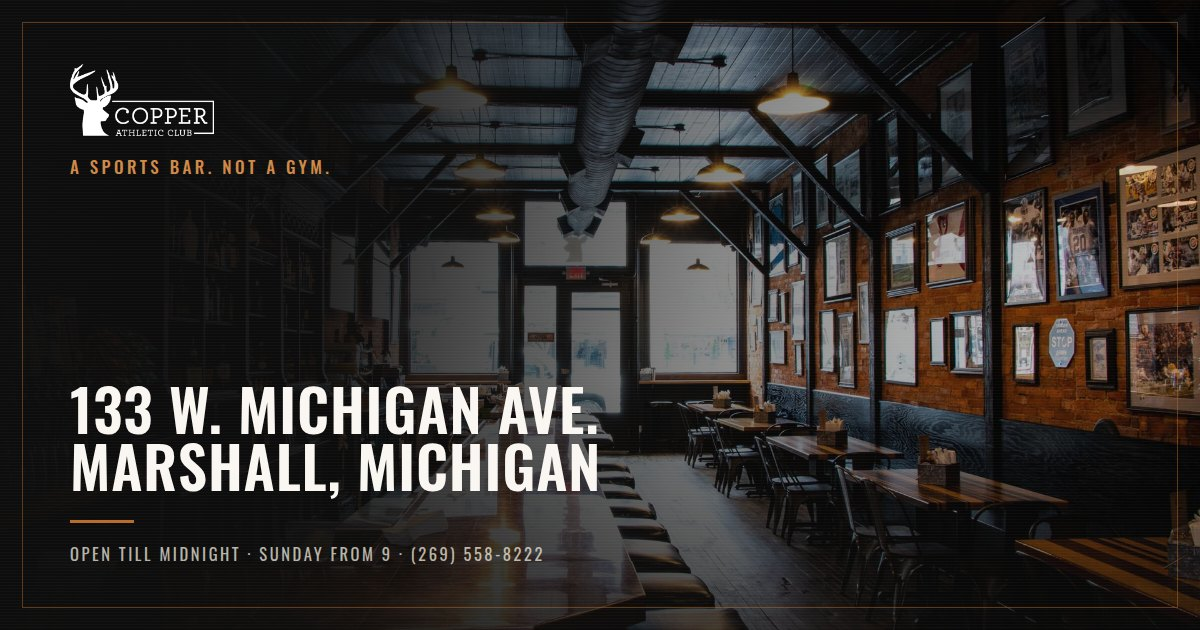
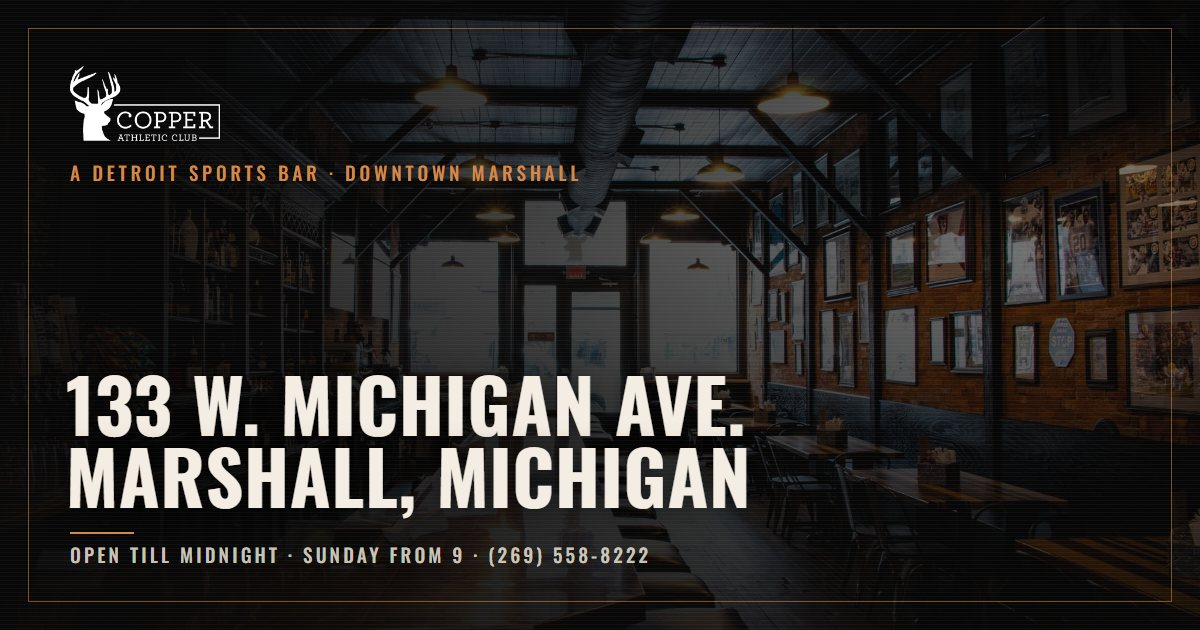
"A sports bar. Not a gym." is gone everywhere; the proposal is titled
Owner's request via Kevin, 8 Sep 2026. The line had already left the
hero, but it survived as the meta description on every page, the OG alt
text, the manifest tagline, and, baked in, all six link-card images in
public/og. Descriptions and tagline now use the hero's own line (a
Detroit sports bar in downtown Marshall). The cards are rebuilt from a
generator that now lives in the repo (tools/og-cards.mjs): same layout,
same photos, no kicker line, and the home card reads the hero instead
of the joke. The old generator lived outside the repo and was lost,
which is how a JPEG outlived the owner's request by weeks.

The proposal's h1 is Kevin's pick from the options: "Make the website
the home base.", with the sub rewritten around why people open a bar's
website at all (hours, ordering) and what gives them a reason to come
back.

diff --git a/public/pitch/copper-athletic-club.html b/public/pitch/copper-athletic-club.html
@@ -217,11 +217,12 @@ footer .gmark{height:78px;width:auto}
   <div class="hero">
     <svg class="gmark mark" viewBox="0 0 200 250" overflow="visible" aria-hidden="true"><defs><linearGradient id="dgGrad" x1="0" y1="92" x2="0" y2="165" gradientUnits="userSpaceOnUse"><stop offset="0%" stop-color="#5FA850"></stop><stop offset="100%" stop-color="#43813A"></stop></linearGradient><linearGradient id="lgGrad" x1="0" y1="92" x2="0" y2="215" gradientUnits="userSpaceOnUse"><stop offset="0%" stop-color="#D9EDA0"></stop><stop offset="55%" stop-color="#BFE07A"></stop><stop offset="100%" stop-color="#A3CE55"></stop></linearGradient><radialGradient id="pinkGrad" cx="40%" cy="34%" r="75%"><stop offset="0%" stop-color="#F887B2"></stop><stop offset="55%" stop-color="#E84D8A"></stop><stop offset="100%" stop-color="#CE3672"></stop></radialGradient><linearGradient id="creepGrad" x1="0" y1="90" x2="0" y2="124" gradientUnits="userSpaceOnUse"><stop offset="0%" stop-color="#E3F2B0"></stop><stop offset="100%" stop-color="#C3E181"></stop></linearGradient></defs><g class="goo"><g fill="url(#dgGrad)"><ellipse cx="100" cy="110" rx="38" ry="15"></ellipse><path class="wobB" d="M 86 100 C 86 116, 87 130, 88 142 C 88 148, 91 149, 92 142 C 93 130, 92 114, 92 100 Z"></path><path d="M 114 100 C 114 112, 115 124, 116 134 C 116 140, 119 141, 120 134 C 121 124, 120 110, 120 100 Z"></path></g><g fill="url(#lgGrad)"><path class="wob1" d="M 64 100 C 63 120, 65 138, 66 152 C 66 164, 68 172, 74 173 C 80 172, 83 165, 82 154 C 84 136, 85 116, 86 100 Z"></path><path class="wob2" d="M 92 100 C 91 128, 93 152, 94 172 C 94 188, 97 199, 104 200 C 111 199, 114 190, 112 174 C 113 150, 114 124, 114 100 Z"></path><path class="wob3" d="M 120 100 C 119 116, 120 130, 121 142 C 121 152, 123 159, 129 160 C 134 159, 137 153, 135 144 C 136 130, 137 114, 137 100 Z"></path></g></g><path class="string" d="M 104 199 L 104 209" stroke="#BFE07A" stroke-width="2.5" stroke-linecap="round" fill="none"></path><g class="droplet"><circle cx="104" cy="213" r="7" fill="#BFE07A"></circle><circle cx="102" cy="211" r="2" fill="#F1F8DC" opacity="0.9"></circle></g><circle class="droplet2" cx="74" cy="186" r="4.5" fill="#BFE07A"></circle><circle cx="100" cy="70" r="52" fill="url(#pinkGrad)"></circle><path d="M 56 98 A 52 52 0 0 0 144 98 C 142 94, 138 92, 134 94 C 130 97, 129 102, 125 104 C 119 106, 116 98, 110 96 C 104 94, 103 102, 98 105 C 93 107, 90 100, 84 97 C 78 95, 76 100, 71 102 C 66 103, 62 100, 56 98 Z" fill="url(#creepGrad)"></path><path d="M 68 106 A 42 42 0 0 0 84 116" fill="none" stroke="#F1F8DC" stroke-width="4" stroke-linecap="round" opacity="0.85"></path><path d="M 97 144 Q 103 151 109 144" fill="none" stroke="#55974A" stroke-width="4" stroke-linecap="round"></path><g stroke="#F1F8DC" fill="none" stroke-linecap="round"><path d="M 97 128 C 96 148, 97 166, 100 182" stroke-width="4.5" opacity="0.85"></path><path d="M 69 118 C 68 132, 70 146, 71 156" stroke-width="3.5" opacity="0.8"></path><path d="M 124 114 C 123 124, 125 138, 126 148" stroke-width="3.5" opacity="0.8"></path></g><circle cx="100" cy="192" r="2.5" fill="#F1F8DC" opacity="0.9"></circle><circle cx="100" cy="72" r="13" fill="#FDF6EC"></circle><circle cx="100" cy="72" r="13" fill="none" stroke="#C22F6B" stroke-width="3" opacity="0.3"></circle><path class="sheen" d="M 62 46 A 44 44 0 0 1 82 28" fill="none" stroke="#FFFFFF" stroke-width="8" stroke-linecap="round"></path><circle class="sheen" cx="92" cy="26" r="3.5" fill="#FFFFFF"></circle></svg>
     <div class="k">Website proposal · Copper Athletic Club</div>
-    <h1>Most bar websites get<br>looked at <em>once.</em></h1>
-    <p class="sub">Somebody needs the hours, finds them, and never comes back. So we
-    put the Detroit scores on it, Michigan and State too, and now what is
-    pouring. Same logo, same voice, plus two reasons to open the thing twice.
-    And while we were in there, we fixed a handful of quiet problems.</p>
+    <h1>Make the website<br>the <em>home base.</em></h1>
+    <p class="sub">Most people open a bar's website for the hours or to order,
+    and then they leave. So we put the scores on it, Detroit, Michigan and
+    State, and what is pouring, so there is a reason to open it twice. Same
+    logo, same voice. And while we were in there, we fixed a handful of quiet
+    problems.</p>
     <div class="forwho">
       Prepared by <b>Glazed Web</b>, Marshall, Michigan<br>
       September 2026 · The site is live at <b>copperac.glazedweb.com/demo</b>

diff --git a/app/layout.tsx b/app/layout.tsx
@@ -29,7 +29,7 @@ export const metadata: Metadata = {
     template: "%s | Copper Athletic Club",
   },
   description:
-    `A sports bar, not a gym. Detroit sports memorabilia, cold taps, burgers and Sunday brunch in downtown Marshall, Michigan. Order online or call ${SITE.phone}.`,
+    `A Detroit sports bar in downtown Marshall, Michigan: memorabilia on every wall, cold taps, burgers and Sunday brunch. Order online or call ${SITE.phone}.`,
   keywords: [
     "sports bar Marshall MI",
     "Copper Athletic Club",
@@ -44,10 +44,10 @@ export const metadata: Metadata = {
     siteName: SITE.name,
     title: "Copper Athletic Club | Sports Bar in Marshall, MI",
     description:
-      "A sports bar, not a gym. Detroit sports memorabilia, cold taps, burgers and Sunday brunch in downtown Marshall, Michigan.",
+      "A Detroit sports bar in downtown Marshall, Michigan: memorabilia on every wall, cold taps, burgers and Sunday brunch.",
     // Designed share card, not a raw photo: 1200x630 (the ratio every scraper
     // crops to) and JPG, because some previewers still won't render WebP.
-    images: [{ url: "/og/home.jpg", width: 1200, height: 630, alt: "Copper Athletic Club: a sports bar, not a gym. Downtown Marshall, Michigan." }],
+    images: [{ url: "/og/home.jpg", width: 1200, height: 630, alt: "Copper Athletic Club, a Detroit sports bar in downtown Marshall, Michigan." }],
   },
   twitter: {
     // Only the card type is set here. Title, description and image are

diff --git a/lib/site.ts b/lib/site.ts
@@ -1,10 +1,12 @@
 export const SITE = {
   name: "Copper Athletic Club",
   shortName: "Copper AC",
-  // Still the tagline of record: it carries "sports bar" for search and link
-  // previews, and it is in the manifest and the page titles. It is no longer
-  // the hero h1, which now runs the deadpan spec version of the same joke.
-  tagline: "A sports bar. Not a gym.",
+  // "A sports bar. Not a gym." is retired everywhere, owner's request (via
+  // Kevin, 8 Sep 2026): it had already left the hero, and on this date it
+  // left the descriptions, the manifest and all six link-card images too
+  // (tools/og-cards.mjs). This is the hero's own line, and it still carries
+  // "sports bar" for search and link previews.
+  tagline: "A Detroit sports bar in downtown Marshall",
   // Confirmed by Kevin, 9 Aug 2026: seven in the main bar, four upstairs in the
   // Copper Reserve, eleven in the building. It took three passes to land here
   // (14 was mine and invented, then 9, then 7 plus 4), which is the whole

diff --git a/app/(site)/layout.tsx b/app/(site)/layout.tsx
@@ -22,7 +22,7 @@ const restaurantSchema = {
   name: SITE.name,
   alternateName: "Copper AC",
   description:
-    "A sports bar, not a gym. Detroit sports memorabilia, cold taps, burgers and Sunday brunch in downtown Marshall, Michigan.",
+    "A Detroit sports bar in downtown Marshall, Michigan: memorabilia on every wall, cold taps, burgers and Sunday brunch.",
   url: SITE.url,
   telephone: "+1-269-558-8222",
   email: SITE.email,

diff --git a/README.md b/README.md
@@ -153,7 +153,10 @@ better brag, which for a sports bar it arguably is; that is a one-word change.
 This is how the 14 outlived its own correction by half a day, so they are named
 here rather than left to be rediscovered:
 
-- `public/og/home.jpg`, the share-preview image, rebuilt from `cop-og/gen.mjs`.
+- `public/og/*.jpg`, the six share-preview images, rebuilt from
+  `tools/og-cards.mjs` (in the repo since 8 Sep 2026; the earlier generator
+  lived outside it and was lost, which is how "A sports bar. Not a gym."
+  stayed baked into every card for weeks after the owner asked for it to go).
   There is no way to grep a JPEG.
 - The Copper card in the glazedweb portfolio, in that repo's `app/page.jsx`.
 
